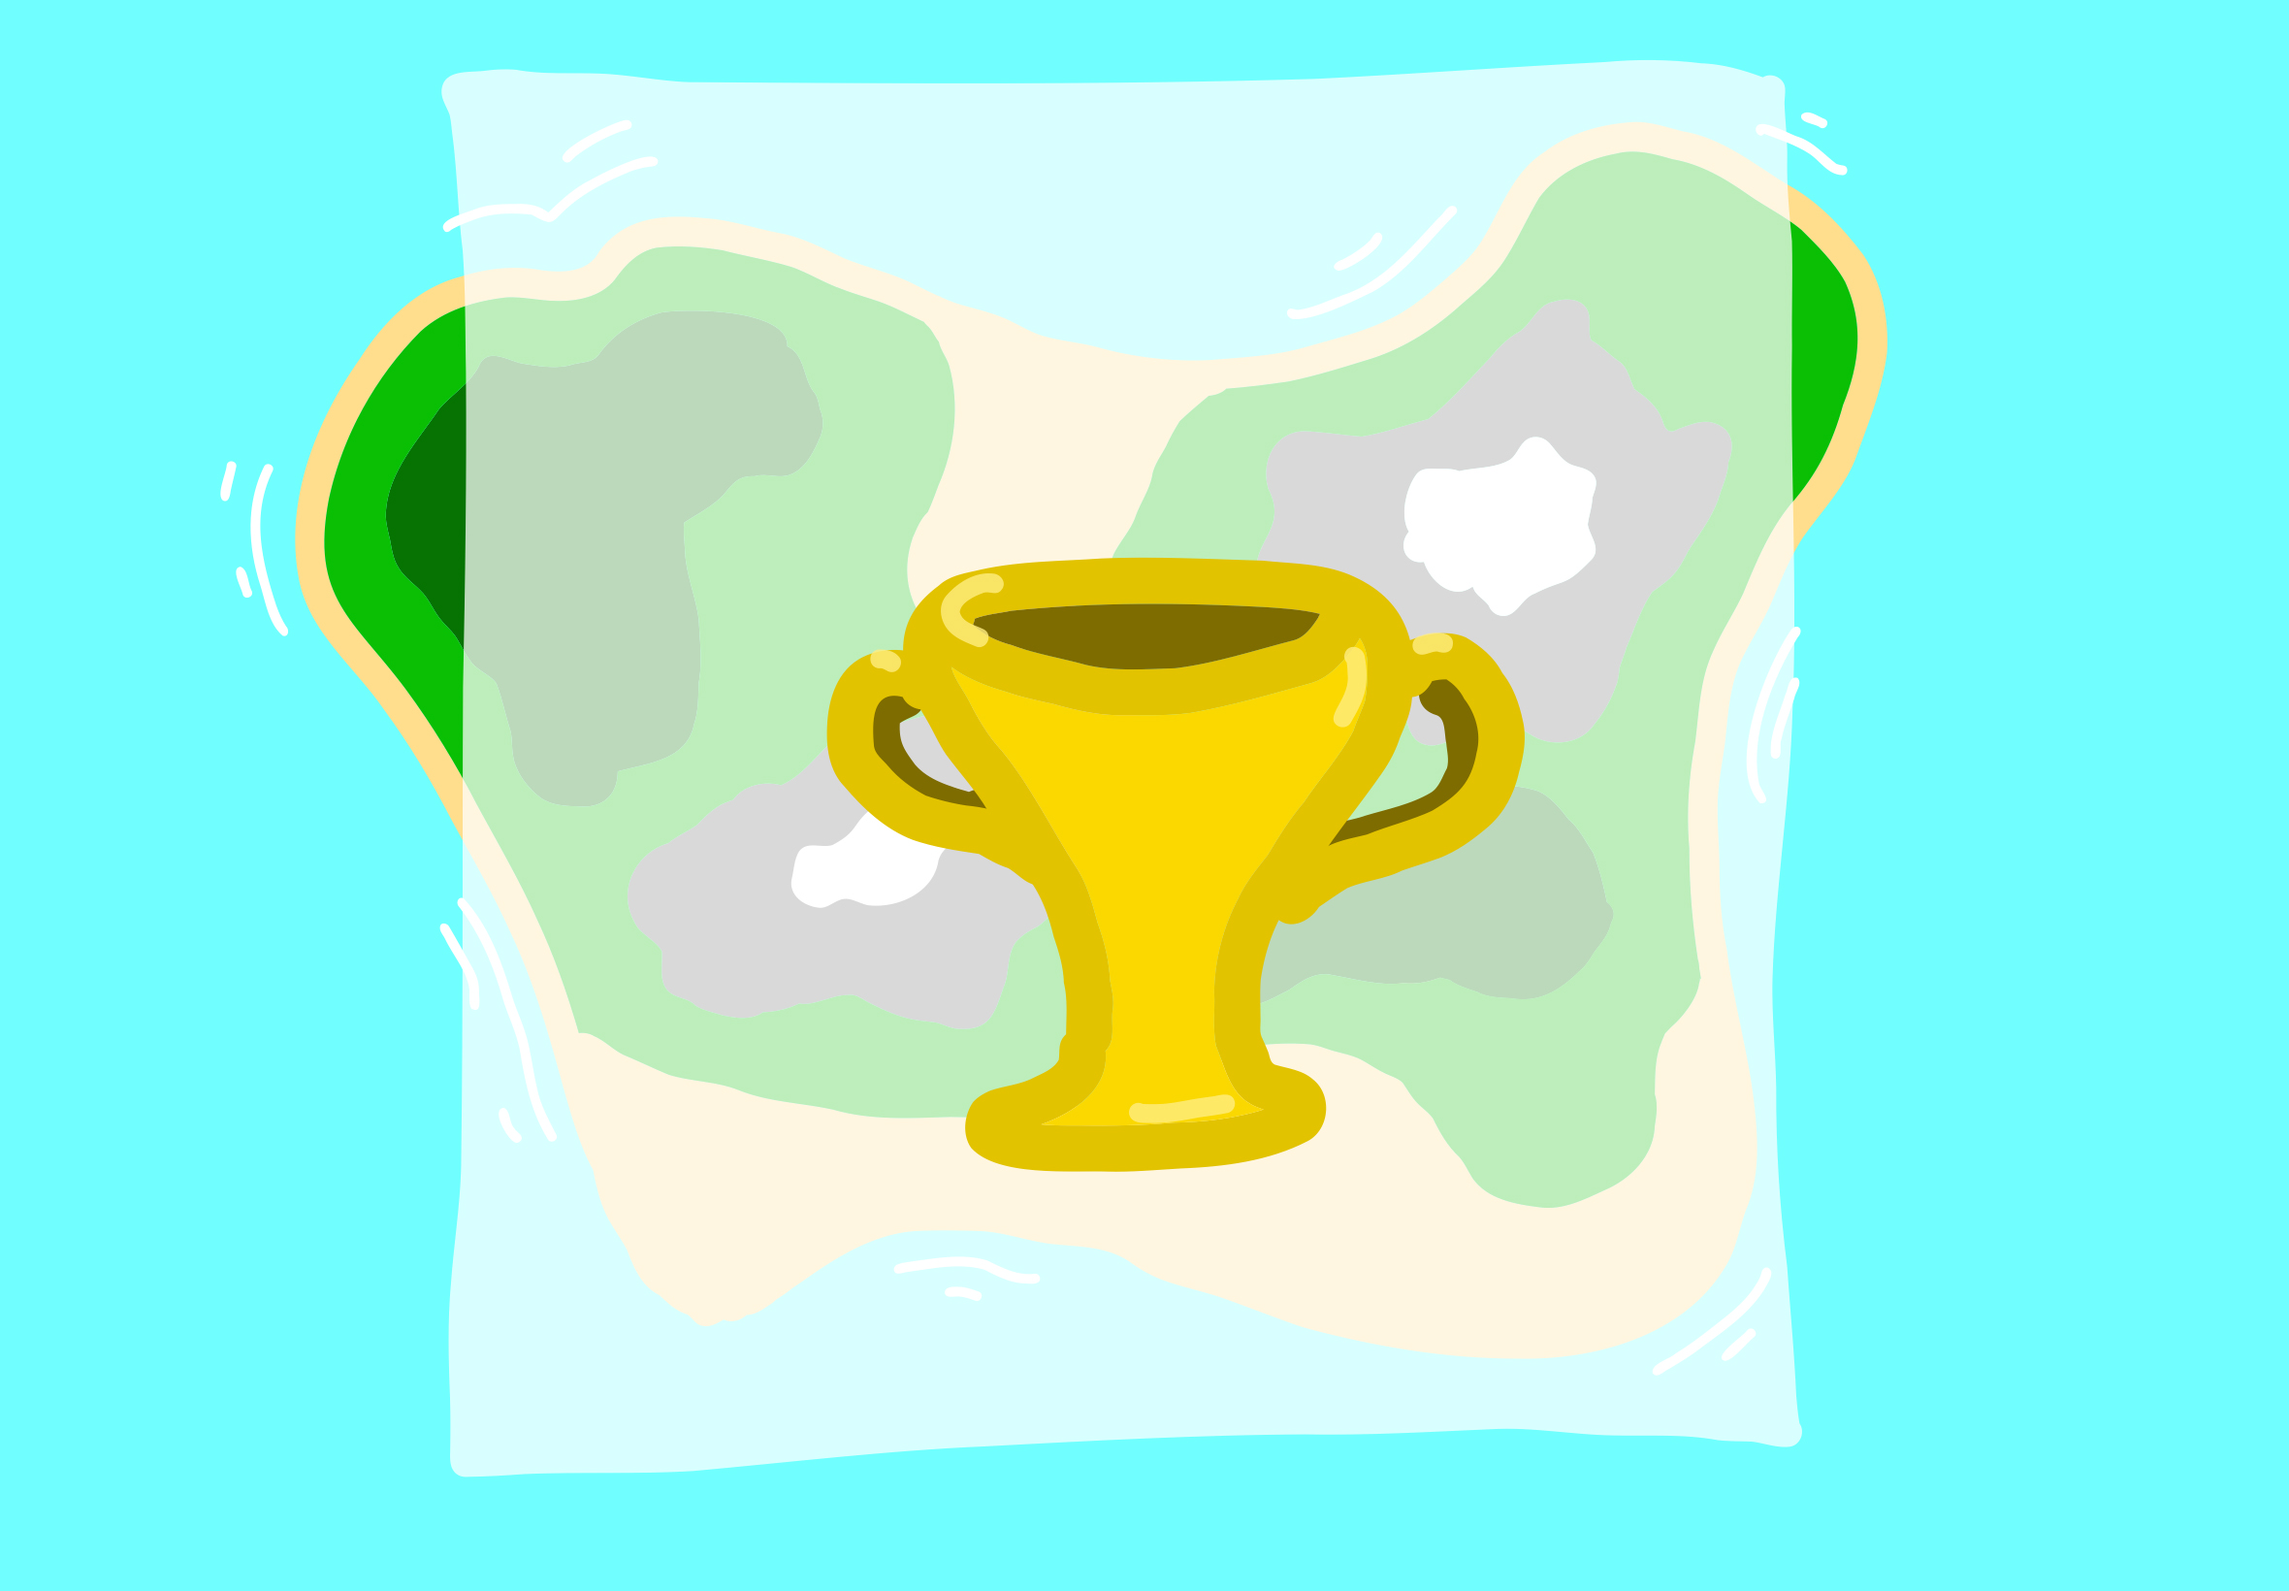
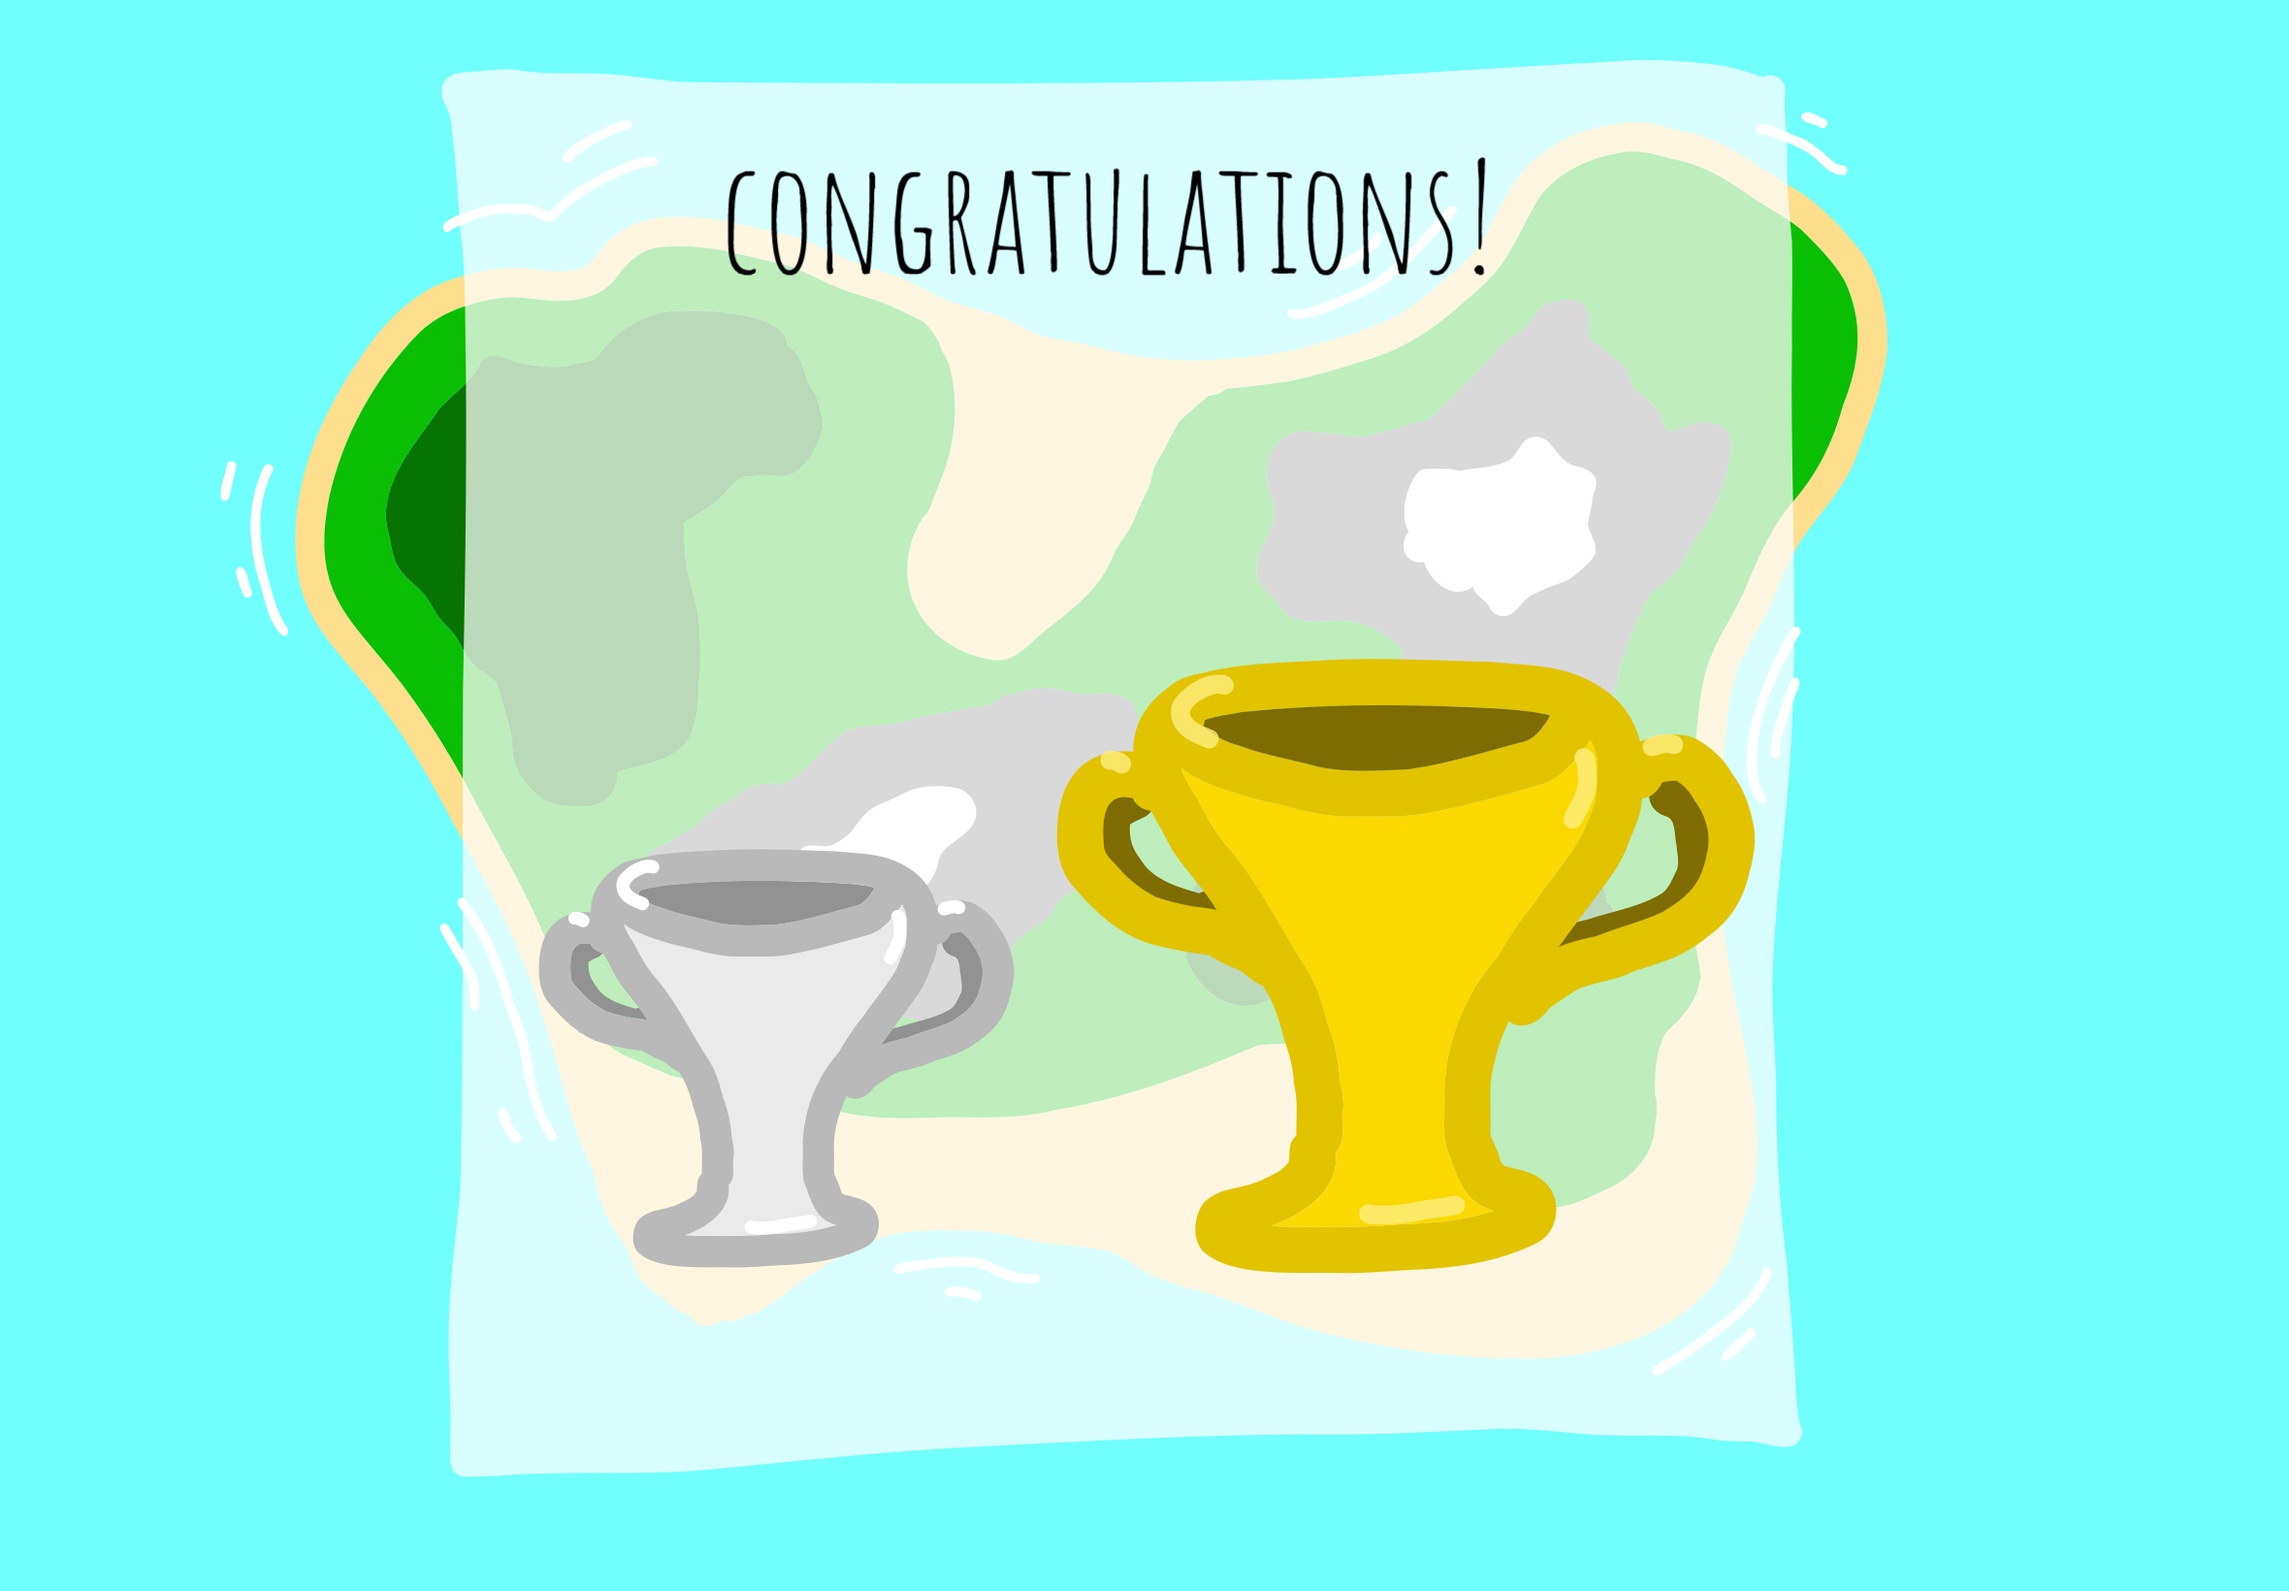
added new victoryscreen

Changed region(s): [[0.2165, 0.3421, 0.7733, 0.8085], [0.3093, 0.0933, 0.6496, 0.1866]]

diff --git a/core/src/com/mygdx/game/View/VictoryView.java b/core/src/com/mygdx/game/View/VictoryView.java
@@ -5,6 +5,7 @@ import com.badlogic.gdx.Gdx;
 import com.badlogic.gdx.graphics.Color;
 import com.badlogic.gdx.graphics.Texture;
 import com.badlogic.gdx.graphics.g2d.BitmapFont;
+import com.badlogic.gdx.graphics.g2d.GlyphLayout;
 import com.badlogic.gdx.graphics.g2d.SpriteBatch;
 import com.badlogic.gdx.scenes.scene2d.InputEvent;
 import com.badlogic.gdx.scenes.scene2d.InputListener;
@@ -67,19 +68,34 @@ public class VictoryView extends State {
 
     @Override
     public void render(SpriteBatch sb) {
-        sb.setProjectionMatrix(cam.combined);
-        sb.begin();
-        sb.draw(background, 0, 0, width, height);
-        customFont.setColor(Color.BLACK);
-        customFont.getData().setScale(1);
-        String Cong = "Congratulations!";
-        String scoreText = "Player: " + score.getName() + "\t Score: " + score.getScore();
-        System.out.println(scoreText);
-        customFont.draw(sb, Cong, width, height);
-        customFont.draw(sb, scoreText, width, height);      
-        sb.end();
-        stage.act(Gdx.graphics.getDeltaTime());
-        stage.draw();
+    sb.setProjectionMatrix(cam.combined);
+    sb.begin();
+    sb.draw(background, 0, 0, width, height);
+    customFont.setColor(Color.BLACK);
+    customFont.getData().setScale(1);
+    String Cong = "Congratulations!";
+    String scoreText = "Player: " + score.getName() + "    Score: " + score.getScore();
+    System.out.println(scoreText);
+
+    // Calculate the x and y coordinates for the center of the screen
+    float xCenter = width / 2f;
+    float yCenter = height - (height / 4f);
+
+    // Calculate the width and height of the "Congratulations!" text
+    GlyphLayout congLayout = new GlyphLayout(customFont, Cong);
+
+    // Draw "Congratulations!" text centered
+    customFont.draw(sb, Cong, xCenter - congLayout.width / 2, yCenter + congLayout.height / 2);
+
+    // Calculate the width and height of the score text
+    GlyphLayout scoreLayout = new GlyphLayout(customFont, scoreText);
+
+    // Draw the score text centered below the "Congratulations!" text
+    customFont.draw(sb, scoreText, xCenter - scoreLayout.width / 2, yCenter - scoreLayout.height / 2);
+
+    sb.end();
+    stage.act(Gdx.graphics.getDeltaTime());
+    stage.draw();
     }
 
     @Override
